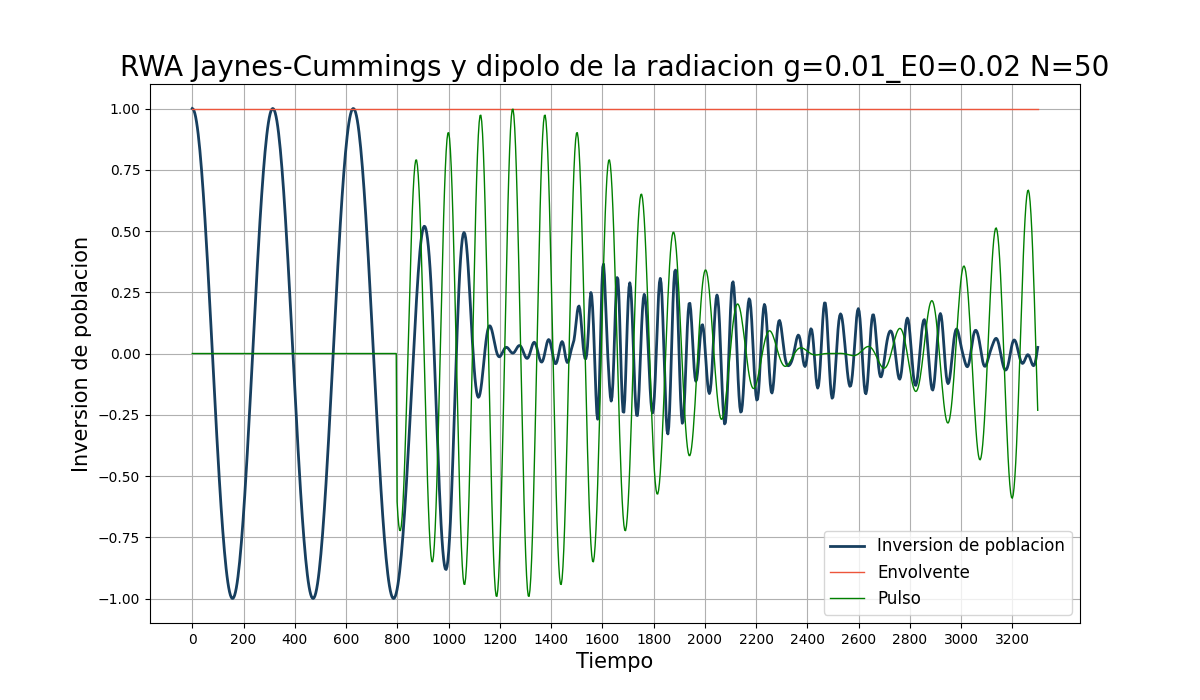
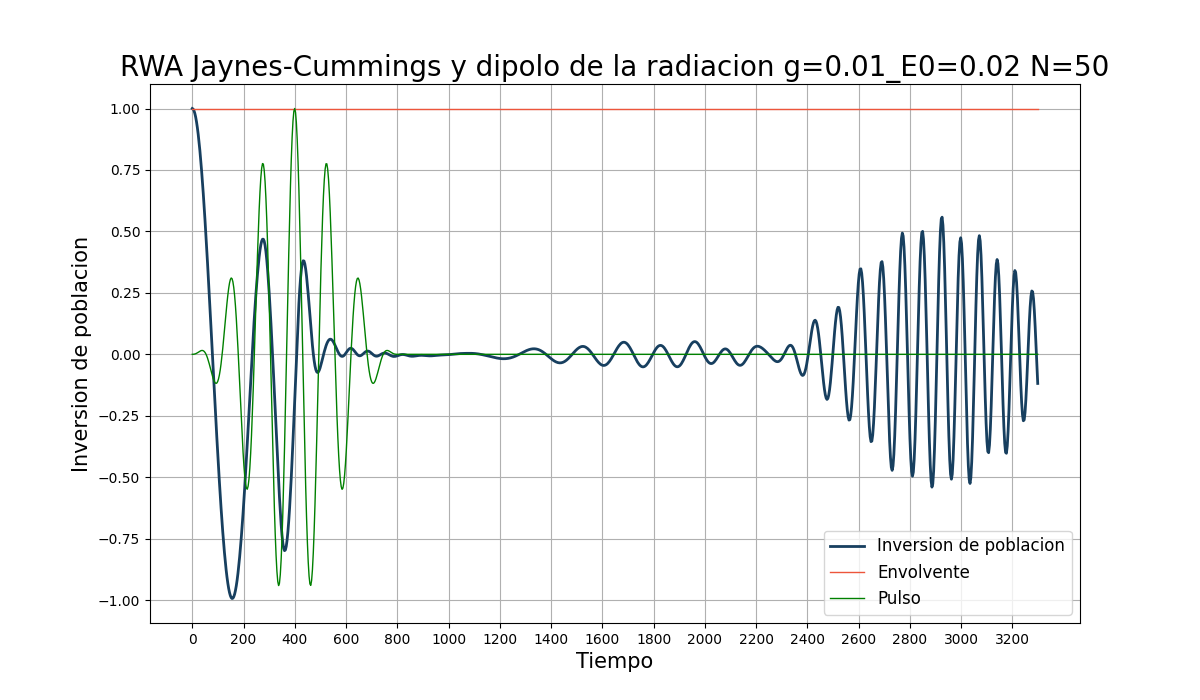
Expresión analítica con sigma z

diff --git a/analityc_ev.py b/analityc_ev.py
@@ -3,7 +3,62 @@ import matplotlib.pyplot as plt
 from qutip import *
 from tqdm import tqdm
 import math as math
+from scipy.special import genlaguerre
+from scipy.special import factorial
+from population_average_const_env_retraso_negative import *
 
 #Veamos la inversión de población para un pulso actuando sobre un estado inicial venido del Jaynes-Cummings
+N=20
+omega_c, omega_0, omega_l = 0.05, 0.05, 0.05
+g = 0.01
+E0 = 0.02
+n=5
+area = "inversion"
+ini = ["e", 0]  
+num_steps = 1000
+tg= (n)*np.pi/(2*g)
+tf=2*tg
+ti=tg
+t = np.linspace(0,max([tf,tg+ti]),num_steps)
 
-#Definamos las funciones que calculan
+#population_inversion_variedades(N, omega_l, omega_0, omega_c, g, E0, n, variedades, area, ini, num_steps)
+#population_inversion(N, omega_l, omega_0, omega_c, g, E0, n, area, ini, num_steps,retraso)
+print(tf)
+print(ti)
+print(tg)
+#population_inversion(N, omega_l, omega_0, omega_c, g, E0, n, area, ini, num_steps,tf,ti,tg)
+a=population_inversion_all(N, omega_l, omega_0, omega_c,g, E0, n, area, ini, num_steps,tf,ti,tg)
+#Definamos las funciones que calculan los elementos de matriz en la expresión analítica
+
+#Elementos de matriz para l mayor o igual que n
+def matrix_element(m,n, alpha):
+        if m>=n:
+            n=float(n)
+            m=float(m)
+            alpha=float(alpha)
+            return (alpha**(m-n))*np.sqrt(factorial(n)/factorial(m))*np.exp(-(abs(alpha)**2)/2)*genlaguerre(n,m-n)(abs(alpha)**2)
+        else:
+             return ((-alpha)**(n-m))*np.sqrt(factorial(m)/factorial(n))*np.exp(-(abs(alpha)**2)/2)*genlaguerre(m,n-m)(abs(alpha)**2)
+        
+             
+
+#Definamos la función que calcula la inversión de población analítica
+
+def inversion_analitica(t, N, alpha,g):
+    list=[]
+    for k in tqdm(range(len(t))):
+        suma=0
+        for i in range(N):
+            for j in range(N):
+                suma+= abs(matrix_element(i,j,np.sqrt(alpha[k])))**2*np.cos(g*np.sqrt(i+1)*t[k])**2 - abs(matrix_element(i,j+1,np.sqrt(alpha[k])))**2*np.sin(g*np.sqrt(i+1)*t[k])**2
+        list.append(suma)
+    return list
+
+    
+
+A=inversion_analitica(t, N, a[10],g)
+
+plt.plot(t,A)
+plt.plot(t,a[9])
+plt.show()
+                  

diff --git a/population_average_const_env_retraso_negative.py b/population_average_const_env_retraso_negative.py
@@ -149,6 +149,8 @@ def population_inversion_all(N, omega_l, omega_0, omega_c, g, E0, n, area, ini, 
 
     b=np.abs(pulso2(t))**2
     unidad=result1.expect[4]
+    inversion=result1.expect[1]
+    alphas=result1.expect[0]
     #Ahora vamos a graficar la inversión de población y el número promedio de fotones
     # Graficamos la inversion de poblacion
     plt.figure(figsize=(12,7),facecolor='w')
@@ -171,6 +173,7 @@ def population_inversion_all(N, omega_l, omega_0, omega_c, g, E0, n, area, ini, 
     plt.plot(t,pulso2(t)*50*30, label="Pulso",color='green',lw=1)
     plt.plot(t,heaviside2(t)*100*30, label="Envolvente",color='#ED553B',lw=1)
     plt.plot(t, result1.expect[0], label="Numero promedio de fotones",color='#20639B',lw=2)
+    plt.xticks(np.arange(0, max(t), 200))
     plt.xlabel('Tiempo',fontsize=15)
     plt.ylabel('Numero promedio de fotones',fontsize=15)
     plt.legend(fontsize=12)
@@ -196,7 +199,7 @@ def population_inversion_all(N, omega_l, omega_0, omega_c, g, E0, n, area, ini, 
 
 
 
-    return resultadose, resultadosg, b, resultados_suma, result_p, alpha, indice, coherent,unidad
+    return resultadose, resultadosg, b, resultados_suma, result_p, alpha, indice, coherent,unidad, inversion, alphas
     
 
 

diff --git a/execute_retraso_negative.py b/execute_retraso_negative.py
@@ -3,11 +3,11 @@ N=50
 omega_c, omega_0, omega_l = 0.05, 0.05, 0.05
 g = 0.01
 E0 = 0.02
-n=7
+n=5
 area = "inversion"
 ini = ["e", 0]  
-num_steps = 2000
-tg= (2*n+1)*np.pi/(2*g)-1500
+num_steps = 5000
+tg= (n)*np.pi/(2*g)
 tf=2*tg
 ti=tg
 
